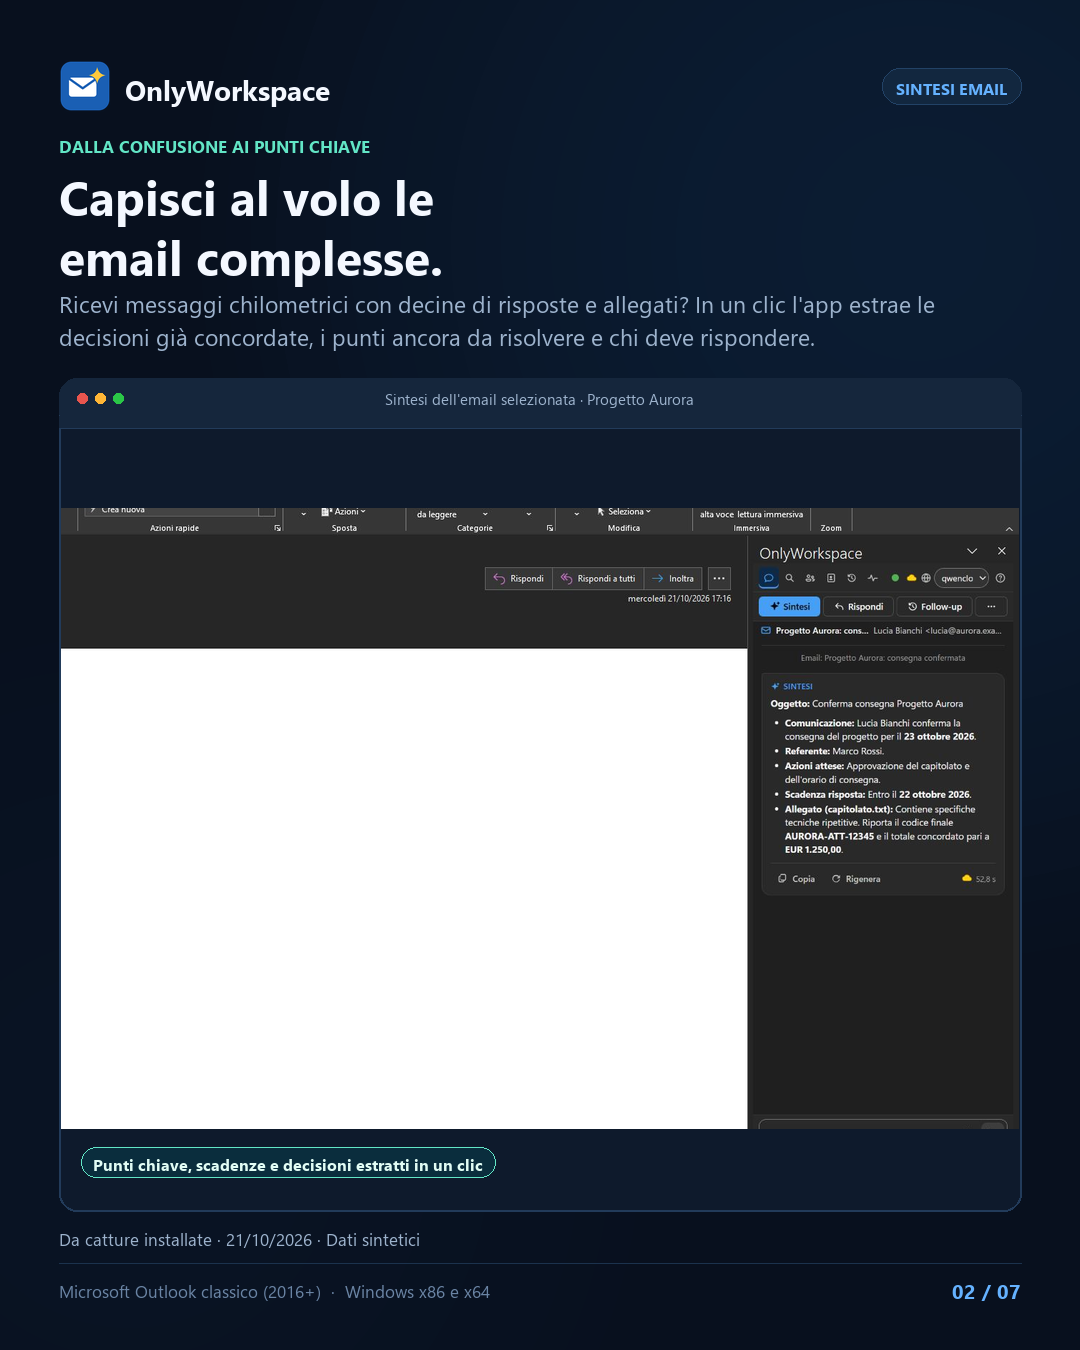
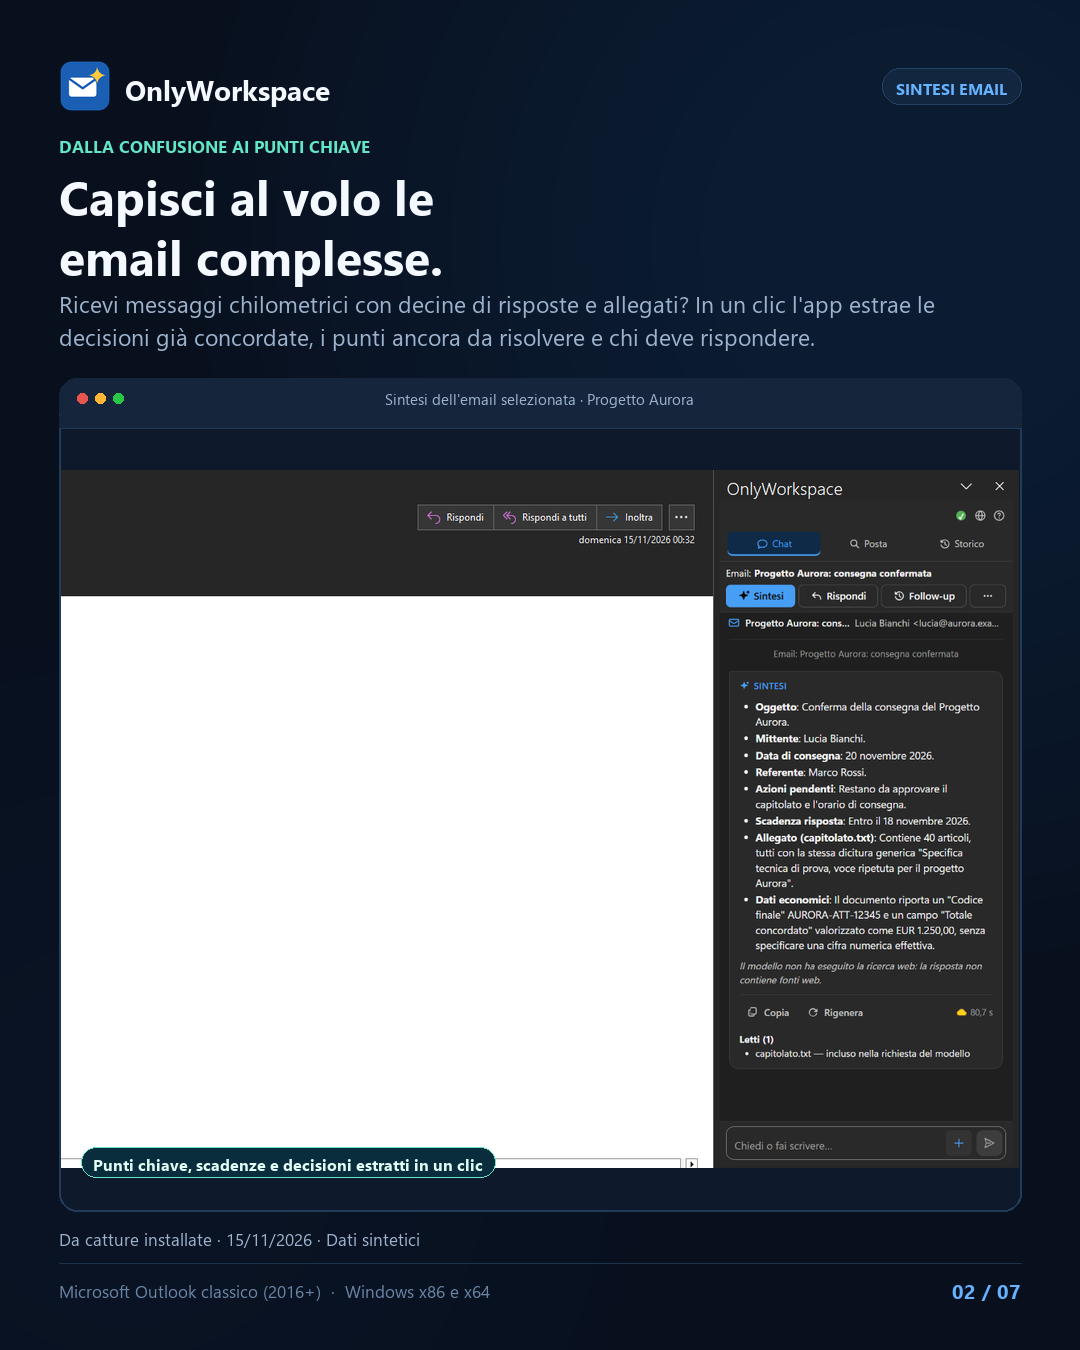
Regenerate the social PNGs from the 15/11/2026 captures (#261), adapt the crop to the new pane

diff --git a/scripts/generate-social-assets.py b/scripts/generate-social-assets.py
@@ -1,4 +1,4 @@
-"""Generate social cards: 01-04 use installed captures dated 2026-10-21; 05-07 are illustrations.
+"""Generate social cards: 01-04 use installed captures dated 2026-11-15; 05-07 are illustrations.
 
 Produces a unified, single-format set of PNG visual cards directly in assets/social/:
 - 01-copertina.png
@@ -305,7 +305,7 @@ def render_slide(slide_index: int, icon_im: Image.Image) -> Image.Image:
     mock_h = mock_bottom - mock_top
     
     if kind == "hero":
-        im_source = Image.open(SCREENSHOTS / "01-sintesi.png")
+        im_source = Image.open(SCREENSHOTS / "01-sintesi-20261115.png")
         draw_mockup_window(base, margin_x, mock_top, content_w, mock_h, im_source, "Microsoft Outlook con OnlyWorkspace", draw)
         
         badge_y = mock_bottom - 68
@@ -315,24 +315,24 @@ def render_slide(slide_index: int, icon_im: Image.Image) -> Image.Image:
         draw_pill(draw, bx, badge_y, "Archivio cifrato sul PC", F_TITLE(16), bg="#0B2642", border="#FFC83D", fg="#FFFFFF")
         
     elif kind == "sintesi":
-        raw = Image.open(SCREENSHOTS / "01-sintesi.png")
-        cropped = raw.crop((580, 120, 1920, 990))
+        raw = Image.open(SCREENSHOTS / "01-sintesi-20261115.png")
+        cropped = raw.crop((730, 160, 1920, 1028))
         draw_mockup_window(base, margin_x, mock_top, content_w, mock_h, cropped, "Sintesi dell'email selezionata · Progetto Aurora", draw)
         
         badge_y = mock_bottom - 64
         draw_pill(draw, margin_x + 22, badge_y, "Punti chiave, scadenze e decisioni estratti in un clic", F_TITLE(16), bg="#0A2D3D", border="#62E6C6", fg="#E2FDF5")
         
     elif kind == "sicurezza":
-        raw = Image.open(SCREENSHOTS / "02-verifica-sicurezza.png")
-        cropped = raw.crop((580, 120, 1920, 990))
+        raw = Image.open(SCREENSHOTS / "02-verifica-sicurezza-20261115.png")
+        cropped = raw.crop((730, 160, 1920, 1028))
         draw_mockup_window(base, margin_x, mock_top, content_w, mock_h, cropped, "Verifica sicurezza e anti-phishing · Giudizio tecnico", draw)
         
         badge_y = mock_bottom - 64
         draw_pill(draw, margin_x + 22, badge_y, "Allerta immediata: link ingannevoli e domini sospetti segnalati", F_TITLE(16), bg="#3B1C1D", border="#FF7B72", fg="#FFDFDD")
         
     elif kind == "dati":
-        raw = Image.open(SCREENSHOTS / "03-estrai-dati.png")
-        cropped = raw.crop((580, 120, 1920, 990))
+        raw = Image.open(SCREENSHOTS / "03-estrai-dati-20261115.png")
+        cropped = raw.crop((730, 160, 1920, 1028))
         draw_mockup_window(base, margin_x, mock_top, content_w, mock_h, cropped, "Estrazione tabella dati · Ordine AUR-2026-118", draw)
         
         badge_y = mock_bottom - 64
@@ -446,7 +446,7 @@ def render_slide(slide_index: int, icon_im: Image.Image) -> Image.Image:
         
         base.alpha_composite(card, (margin_x, mock_top))
 
-    provenance = "Da catture installate · 21/10/2026 · Dati sintetici" if slide_index <= 4 else "Illustrazione delle funzioni · Non è una schermata dell'app"
+    provenance = "Da catture installate · 15/11/2026 · Dati sintetici" if slide_index <= 4 else "Illustrazione delle funzioni · Non è una schermata dell'app"
     draw.text((margin_x, mock_bottom + 16), provenance, font=F_REGULAR(17), fill=TEXT_MUTED)
     page_str = f"0{slide_index} / 07"
     draw_footer(draw, margin_x, footer_y, content_w, page_str)

diff --git a/assets/social_copy.md b/assets/social_copy.md
@@ -8,17 +8,17 @@ Set unico di **sette PNG 1080 × 1350 px (4:5)** in `assets/social/`, generato d
 
 | File | Contenuto | Provenienza |
 |---|---|---|
-| [01-copertina.png](social/01-copertina.png) | Panoramica Outlook e assistente | Derivata dalla cattura installata del 21/10/2026 |
-| [02-sintesi-email.png](social/02-sintesi-email.png) | Sintesi email | Derivata dalla cattura installata del 21/10/2026 |
-| [03-verifica-sicurezza.png](social/03-verifica-sicurezza.png) | Evidenze tecniche e rischi | Derivata dalla cattura installata del 21/10/2026 |
-| [04-estrai-dati.png](social/04-estrai-dati.png) | Tabella da ordine o preventivo | Derivata dalla cattura installata del 21/10/2026 |
+| [01-copertina.png](social/01-copertina.png) | Panoramica Outlook e assistente | Derivata dalla cattura installata del 15/11/2026 |
+| [02-sintesi-email.png](social/02-sintesi-email.png) | Sintesi email | Derivata dalla cattura installata del 15/11/2026 |
+| [03-verifica-sicurezza.png](social/03-verifica-sicurezza.png) | Evidenze tecniche e rischi | Derivata dalla cattura installata del 15/11/2026 |
+| [04-estrai-dati.png](social/04-estrai-dati.png) | Tabella da ordine o preventivo | Derivata dalla cattura installata del 15/11/2026 |
 | [05-bozze-scrittura.png](social/05-bozze-scrittura.png) | Scrittura assistita | Illustrazione, non schermata dell'app |
 | [06-ricostruisci-flusso.png](social/06-ricostruisci-flusso.png) | Cronologia della corrispondenza | Illustrazione, non schermata dell'app |
 | [07-privacy-sovranita.png](social/07-privacy-sovranita.png) | Archivio, IA e destinazioni | Illustrazione, non schermata dell'app |
 
 Le tre catture originali in `screenshots/installed/` mostrano Outlook classico su WS-DP01, PST sintetico con indirizzi `.example` e QwenCloud. La copertina usa la cattura Sintesi. Date ed evidenze sono in [Verifica e qualifica](../docs/tecnico/verifica.md). Le catture documentano quella build, non ogni modifica successiva; non sono prove su cassette clienti.
 
-Catture aggiornate del **15/11/2026** (#235) in `screenshots/installed/`: [01-sintesi-20261115.png](screenshots/installed/01-sintesi-20261115.png), [02-verifica-sicurezza-20261115.png](screenshots/installed/02-verifica-sicurezza-20261115.png), [03-estrai-dati-20261115.png](screenshots/installed/03-estrai-dati-20261115.png). Build installata 1.0.0+cf66170, Outlook classico su WS-DP01 (monitor a 100%), cartella locale sintetica con indirizzi `.example` e `.example.test`, profilo QwenCloud (qwen3.8-flash, livello Esteso); nessuna ricerca web eseguita, nessun dato reale nelle immagini. README e panoramica IT puntano a queste. I sette PNG social e il generatore (`generate-social-assets.py`, `generate-assets.py`) usano ancora le tre catture del 21/10/2026: rigenerarli con le nuove richiede una richiesta specifica.
+Catture aggiornate del **15/11/2026** (#235) in `screenshots/installed/`: [01-sintesi-20261115.png](screenshots/installed/01-sintesi-20261115.png), [02-verifica-sicurezza-20261115.png](screenshots/installed/02-verifica-sicurezza-20261115.png), [03-estrai-dati-20261115.png](screenshots/installed/03-estrai-dati-20261115.png). Build installata 1.0.0+cf66170, Outlook classico su WS-DP01 (monitor a 100%), cartella locale sintetica con indirizzi `.example` e `.example.test`, profilo QwenCloud (qwen3.8-flash, livello Esteso); nessuna ricerca web eseguita, nessun dato reale nelle immagini. README e panoramica IT puntano a queste. I sette PNG social sono stati rigenerati con queste tre catture (#261, `generate-social-assets.py`, ritaglio adattato al nuovo riquadro); `generate-assets.py` usa ancora le catture senza data.
 
 ## Messaggio e condizioni sui dati
 
@@ -36,7 +36,7 @@ Una decisione in una risposta, una scadenza in un allegato, un ordine da trasfor
 
 Sintetizza le email, raccogli indizi su link e allegati sospetti, copia le tabelle o esportale in CSV e prepara bozze da rivedere prima dell'invio. L'archivio cifrato è sul PC; scegli il servizio IA e controlla le destinazioni autorizzate. Per lavorare offline usa un modello locale su loopback. Con cloud o web, verifica le condizioni del servizio scelto.
 
-Le immagini 01–04 derivano da catture installate del 21/10/2026 su dati sintetici; 05–07 sono illustrazioni. Qualifica interna in corso.
+Le immagini 01–04 derivano da catture installate del 15/11/2026 su dati sintetici; 05–07 sono illustrazioni. Qualifica interna in corso.
 
 OnlyWorkspace per Microsoft Outlook classico. Ti interessa una demo sul tuo flusso di lavoro? Scrivici in privato.
 
